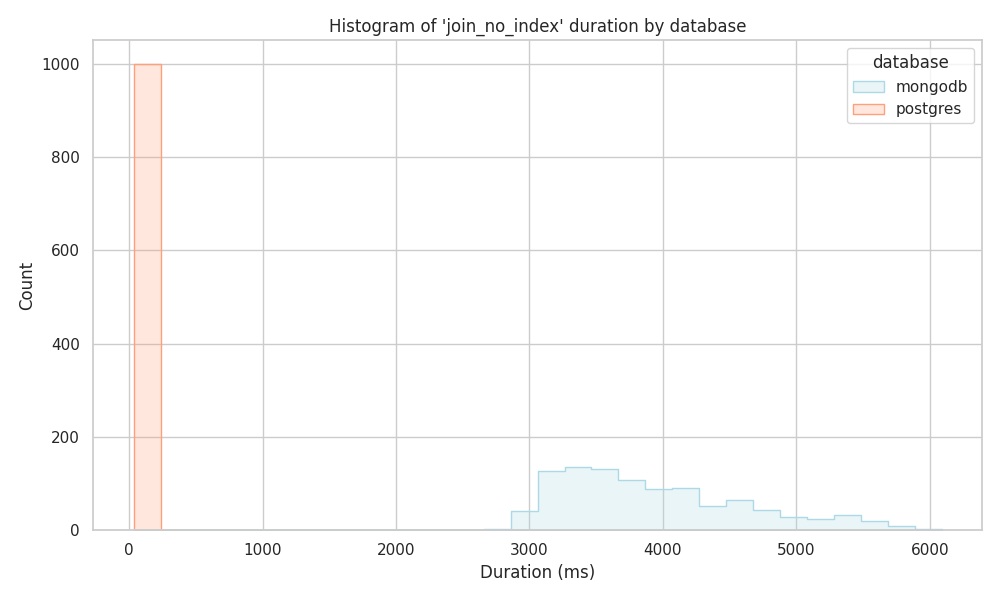
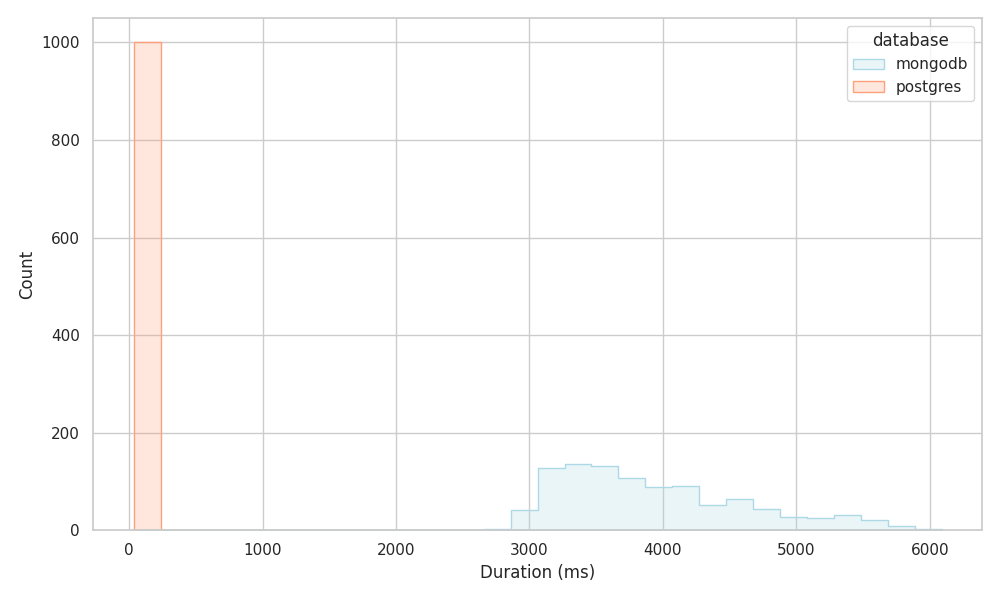
fix

diff --git a/benchmark/analysis/databases/main.py b/benchmark/analysis/databases/main.py
@@ -50,7 +50,7 @@ for operation in all_data["operation"].unique():
         element="step",
         palette=custom_palette,
     )
-    plt.title(f"Histogram of '{operation}' duration by database")
+    #plt.title(f"Histogram of '{operation}' duration by database")
     plt.xlabel("Duration (ms)")
     plt.ylabel("Count")
     plt.tight_layout()

diff --git a/benchmark/analysis/graphql/main.py b/benchmark/analysis/graphql/main.py
@@ -51,7 +51,7 @@ for operation in all_data["operation"].unique():
         element="step",
         palette=custom_palette,
     )
-    plt.title(f"Histogram of '{operation}' duration by database")
+    #plt.title(f"Histogram of '{operation}' duration by database")
     plt.xlabel("Duration (ms)")
     plt.ylabel("Count")
     plt.tight_layout()
